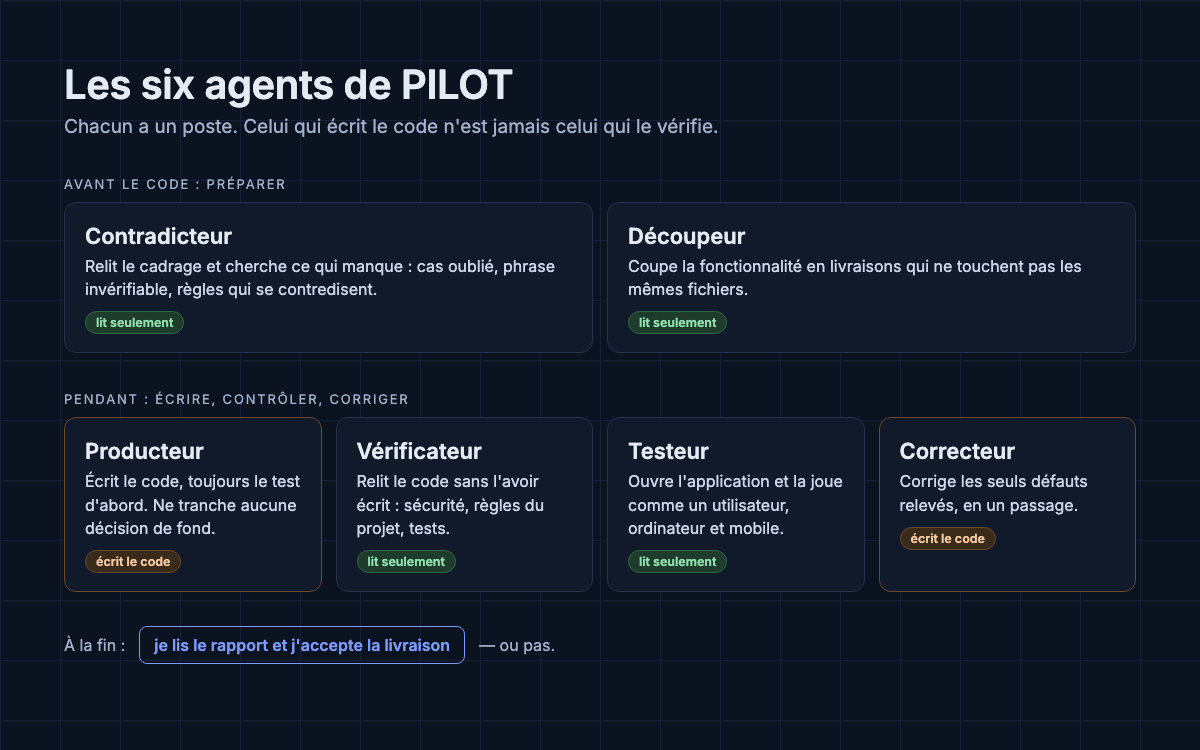
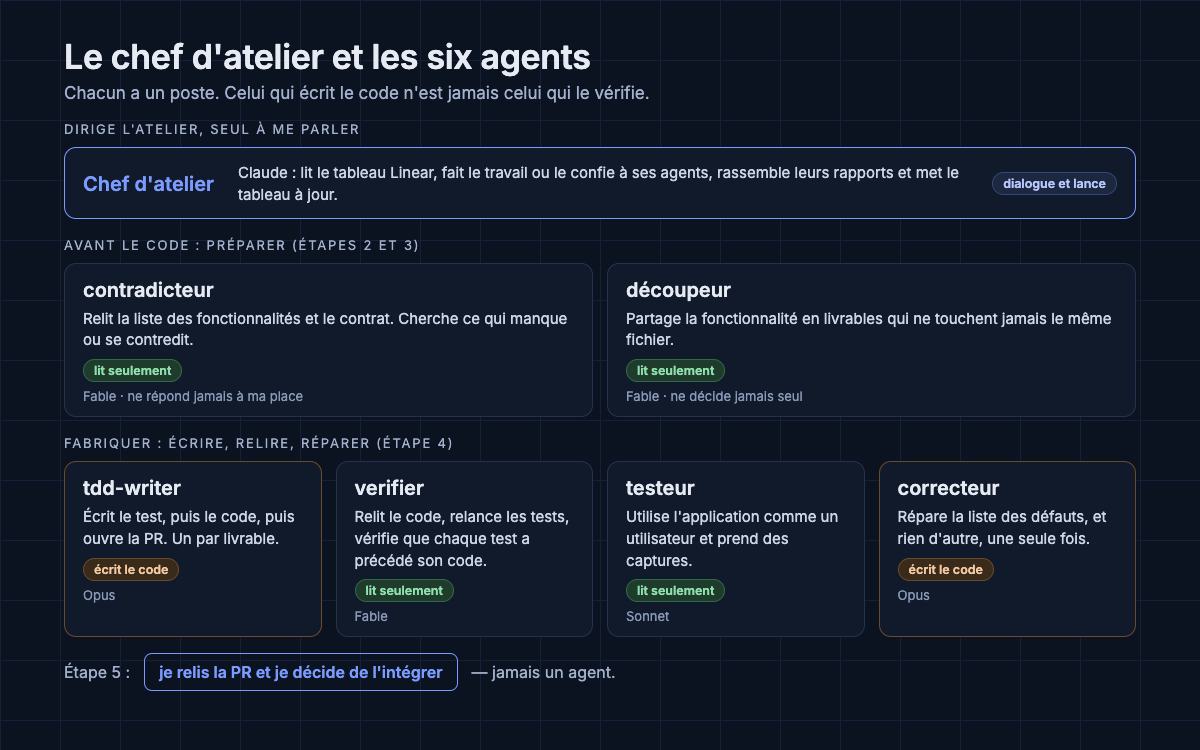
docs(PFO-109): README follows the five steps of the PILOT fiche

diff --git a/README.md b/README.md
@@ -4,7 +4,7 @@ _A method to run a software project with Linear, GitHub and Claude Code: AI agen
 review and fix the code, and I merge. Documentation in French; agent prompts and tools in
 `implementation/`._
 
-![Le circuit PILOT : cadrer, découper, produire, merger, apprendre](images/circuit.png)
+![Le circuit PILOT : comprendre, lister, préparer, fabriquer, décider](images/circuit.png)
 
 Une méthode pour mener un projet logiciel avec Linear, GitHub et Claude Code — et le code qui
 la fait tourner. Je l'ai conçue pour une raison simple : avec des agents de code, écrire n'est
@@ -16,13 +16,14 @@ qui s'installe dans chaque projet.
 
 ## Le principe
 
-Trois outils, trois rôles, et rien qui se recopie d'un endroit à l'autre.
+PILOT fait avancer un projet en cinq étapes. Je décide aux moments clés. Entre deux décisions,
+Claude et ses agents travaillent seuls.
 
 | | |
 |---|---|
 | **Linear** | Le tableau de bord. Ce qu'on fait, dans quel ordre, où on en est. |
-| **GitHub** | L'atelier. Le code, les branches, les pull requests. |
-| **Claude Code** | L'ouvrier. Il cadre, il découpe, il produit, il vérifie. |
+| **GitHub** | L'atelier. C'est là que vit le code. |
+| **Claude Code** | Le chef d'atelier. Il lit le tableau, fait le travail ou le confie à ses agents, puis met le tableau à jour. |
 
 Une seule règle fait tenir l'ensemble : **le code de la tâche Linear voyage dans le nom de la
 branche et dans le titre de la PR.** Tout le reste en découle — Linear lit GitHub et se met à
@@ -37,52 +38,76 @@ finit par désigner deux choses.
 |---|---|---|
 | Team | **Projet** | des mois |
 | Project | **Feature** | des semaines |
-| Milestone | **Livraison** — une PR | des jours |
+| Milestone | **Livrable** — une PR | des jours |
 | Issue | **Tâche** | des heures |
 
 Ne jamais dire « projet » pour un Project Linear : c'est une feature.
 
-## Ce que fait la boucle d'agents
+## Les cinq étapes
 
-Une feature cadrée est découpée en livraisons qui ne se marchent pas dessus. Chacune est
-produite par un agent seul dans sa copie du dépôt, en test-d'abord strict. Deux autres agents
-la relisent — l'un le code, l'autre les écrans — sans jamais la corriger. Un troisième corrige
-ce qu'ils ont trouvé, une seule fois.
+1. **Comprendre le projet** (`init`, une fois). Claude fait une recherche approfondie sur l'état
+   de l'art et les meilleures pratiques du domaine, m'interroge par séries de questions en
+   proposant chaque fois une réponse, puis écrit la page produit. Je valide.
+2. **Faire la liste des fonctionnalités** (`roadmap`). Claude les propose dans l'ordre ; le
+   contradicteur, un agent qui ne fait que chercher ce qui manque, la relit. Je valide.
+3. **Préparer une fonctionnalité** (`feature`). D'abord le contrat : 10 à 30 phrases
+   vérifiables, dont au moins un tiers disent ce qui doit être impossible. Puis le découpeur la
+   partage en livrables qui ne touchent jamais le même fichier, pour les fabriquer en même
+   temps. Je valide les deux.
 
-Puis la PR s'ouvre, et **c'est toi qui merges**.
+   ![Une tâche réelle de l'application mobile de santé dans Linear](images/linear.png)
+
+   _Une tâche réelle de l'application mobile de santé, dans Linear : le problème, ce qu'on fait,
+   et la liste « Terminé quand », refus compris, que les agents doivent tenir._
+
+4. **Fabriquer** (`run`), la seule étape sans moi. Chaque livrable a sa copie du projet. Le
+   tdd-writer écrit le test, vérifie qu'il échoue, puis écrit le code ; chaque étape est
+   enregistrée à part, l'historique le prouve. Le verifier relit le code et le testeur utilise
+   l'application ; aucun des deux ne l'a écrit, aucun ne le modifie. Le correcteur répare leur
+   liste de défauts, une seule fois. La PR s'ouvre avec son rapport, puis tout s'arrête.
+
+   ![Le chef d'atelier et les six agents](images/agents.png)
+
+5. **Décider et apprendre** (merge, puis `sync`). **C'est moi qui merge**, jamais un agent : un
+   verrou technique les en empêche. Claude remet Linear à jour, et chaque erreur qui pourrait
+   revenir devient une règle écrite que les agents liront la fois suivante.
+
+   ![Une PR réelle de mon site, écrite par l'agent](images/pr.png)
+
+   _Une PR réelle de mon site, écrite par l'agent : le code de la tâche dans le titre, ce qui
+   change expliqué en clair. C'est moi qui l'accepte._
 
 Trois invariants, jamais négociés :
 
-1. **Le merge est humain**, à chaque livraison.
+1. **Le merge est humain**, à chaque livrable.
 2. **Les décisions de fond remontent**, elles ne se tranchent pas en chemin.
-3. **Pas de code sans test préalable** — l'historique des commits en est la preuve, et un agent
-   la contrôle.
+3. **Pas de code sans test préalable** (Test Driven Development) : l'historique des commits en
+   est la preuve, et un agent la contrôle.
+
+## Les six agents
+
+Fable sert à juger, Opus à fabriquer, Sonnet à exécuter.
+
+| Agent | Ce qu'il fait | Ce qu'il ne fait jamais | Modèle |
+|---|---|---|---|
+| contradicteur | Cherche ce qui manque ou se contredit | Répondre à ma place | Fable |
+| découpeur | Partage le travail en livrables qui ne se gênent pas | Décider seul | Fable |
+| tdd-writer | Écrit le test, puis le code, puis ouvre la PR | Sortir de son livrable | Opus |
+| verifier | Relit le code et vérifie les preuves | Corriger | Fable |
+| testeur | Utilise l'application et prend des captures | Corriger | Sonnet |
+| correcteur | Répare la liste des défauts, une seule fois | Toucher à autre chose | Opus |
 
 ## Ce que ça donne
 
 Utilisée sur mes projets réels (mon site portfolio : 67 livraisons depuis fin août, un projet
 client, une application mobile), après un rodage sur un projet d'essai complet :
 
-- **8 défauts** attrapés par l'audit derrière des tests verts, tous corrigés avant la PR ;
-- **0,66 h** de session pour une feature que mon barème estimait à 2,44 h ;
-- **23 livraisons** et 67 tâches livrées sur le projet d'essai, trois producteurs en parallèle
+- **8 défauts** attrapés par le verifier derrière des tests verts, tous corrigés avant la PR ;
+- **0,66 h** de session pour une fonctionnalité que mon barème estimait à 2,44 h ;
+- **23 livrables** et 67 tâches livrées sur le projet d'essai, trois tdd-writer en parallèle
   sans conflit.
 
-Les six agents, leur rôle et ce que chacun a le droit de faire :
-
-![Les six agents de PILOT](images/agents.png)
-
-Une tâche réelle de mon site dans Linear : le problème, ce qu'on fait, et la liste « Terminé
-quand », refus compris, que les agents doivent tenir.
-
-![Une tâche Linear de mon site](images/linear.png)
-
-La PR qui livre cette tâche, écrite par l'agent : le code de la tâche dans le titre, ce qui
-change expliqué en clair. C'est moi qui l'accepte.
-
-![La PR qui livre la tâche](images/pr.png)
-
-Le détail, avec ce qui reste à prouver : [la fiche PILOT](https://cedricgicquiaud.github.io/projets/pilot/).
+Le détail : [la fiche PILOT](https://cedricgicquiaud.github.io/projets/pilot/).
 
 ## Les fichiers
 
@@ -106,7 +131,7 @@ la Partie B du Markdown.
 | Démarrer un projet | `/pilot init` | Le PRD est à valider |
 | Poser toutes les features | `/pilot roadmap` | La liste est à valider |
 | Ouvrir une feature | `/pilot feature <nom>` | Le cadrage, puis le découpage, sont à valider |
-| Produire les livraisons | `/pilot run <feature>` | Les PR sont ouvertes et auditées ; tu merges |
+| Fabriquer les livrables | `/pilot run <feature>` | Les PR sont ouvertes et auditées ; tu merges |
 | Remettre Linear d'aplomb après un merge | `/pilot sync` | Il enchaîne sur `next` |
 | Corriger un bug ou faire une retouche hors feature | `/pilot fix <description>` | La PR est ouverte |
 | Comprendre un bug qui ne se reproduit pas | dis « diagnostique » | La cause est nommée |
@@ -142,7 +167,7 @@ le dépôt.
 ## Mettre à jour un projet
 
 Depuis le projet, `/pilot update`. Il va chercher la dernière version, dit en trois lignes ce
-qui change pour ton travail, et commite. Il refuse de tourner pendant qu'une livraison est en
+qui change pour ton travail, et commite. Il refuse de tourner pendant qu'un livrable est en
 cours : un agent lancé avec les anciennes fiches ne doit pas finir avec les nouvelles.
 
 ## La règle qui tient tout
